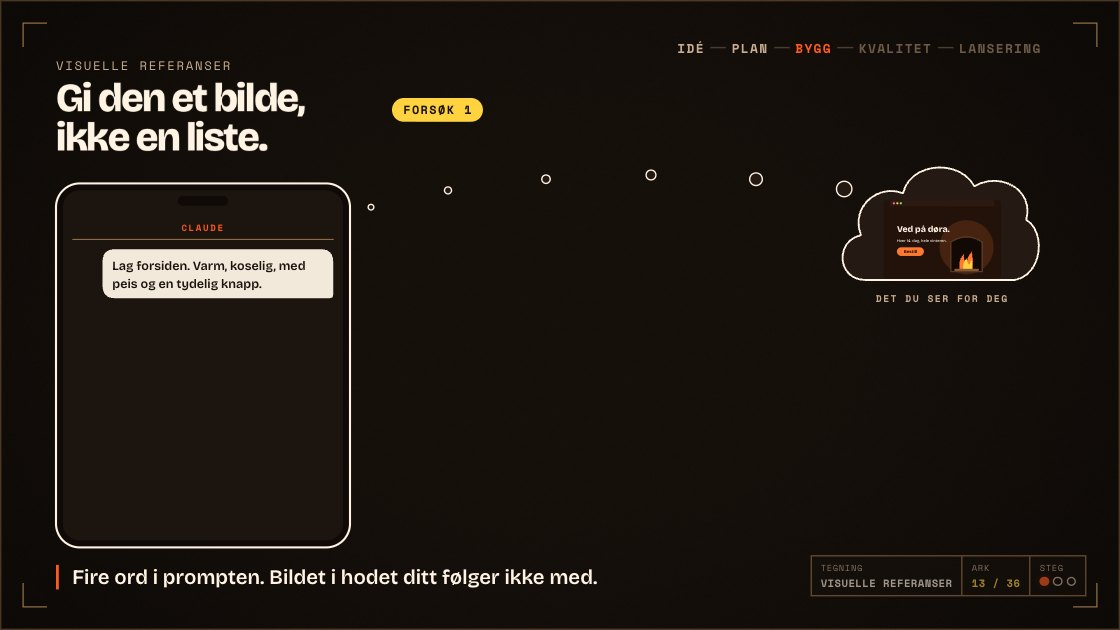
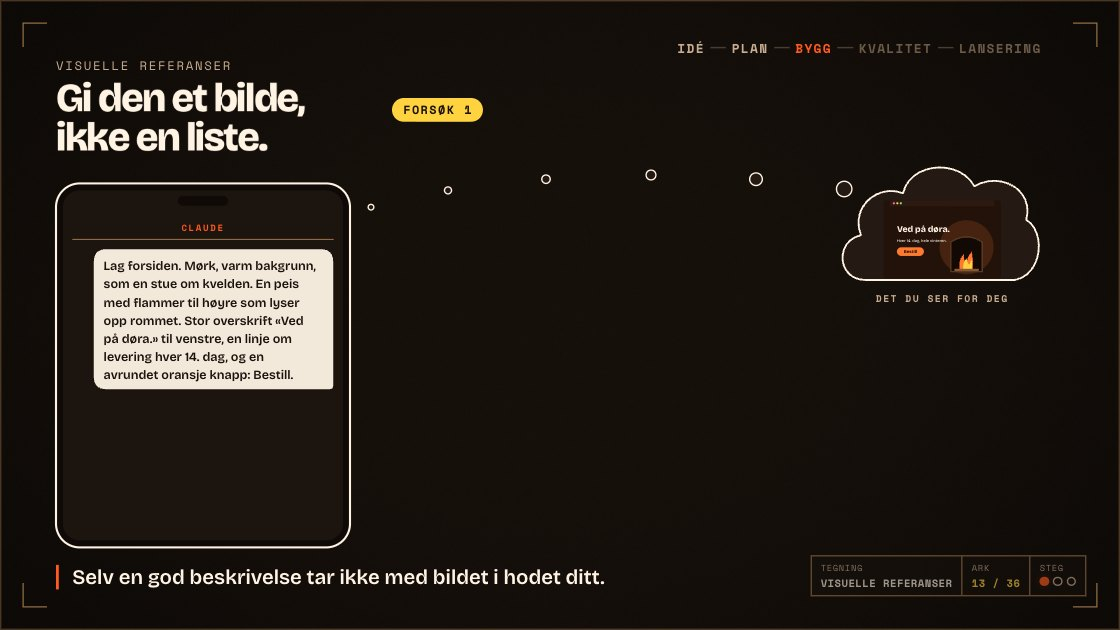
Visual-ref: a full, good description still misses the picture; help line in the speaker's words

Changed region(s): [[0.0625, 0.3921, 0.3125, 0.6333], [0.0625, 0.9048, 0.5312, 0.9349]]

diff --git a/src/slides/visual-ref.js b/src/slides/visual-ref.js
@@ -6,9 +6,9 @@ import { chatPhone, attempt } from '../engine/props.js';
   Tip: give it a picture, not a list. The firewood subscription's front page, right after
   "Varm peis" was picked on the prototypes slide.
     0. The prompt, and what you actually have in mind (a thought cloud: the Varm peis page).
-    1. Attempt 1: the list becomes a checklist and every box is ticked, but the page is the
-       cheap version: bright orange everywhere for "varm", clip-art candle and heart for
-       "koselig", a cartoon flame for "peis", a shouting red button for "tydelig knapp".
+    1. Attempt 1: a good, full description becomes a checklist and every box is ticked, but
+       the page is not what you had in mind: a flat muddy brown, a clip-art brick fireplace
+       with a smiling flame, the headline in the default serif, a glossy orange BESTILL pill.
     2. Attempt 2, a new session: the thought becomes a real reference image (made in ChatGPT).
        The page is built against it: close to the picture, a little plainer.
   The game example (real ChatGPT references, the result in Unreal) is its own slide in
@@ -22,8 +22,9 @@ import { chatPhone, attempt } from '../engine/props.js';
     thought cloud / polaroid x 1190–1494, y 150–440; thought dots y 250–300 back to the phone
 */
 
-const REQ = ['Varm', 'Koselig', 'Peis', 'Tydelig knapp'];
-const PROMPT = 'Lag forsiden. Varm, koselig, med peis og en tydelig knapp.';
+// a good, full description: still not the picture you have in mind
+const REQ = ['Mørk, varm bakgrunn', 'Peis med flammer til høyre', 'Stor overskrift til venstre', 'Oransje knapp: Bestill'];
+const PROMPT = 'Lag forsiden. Mørk, varm bakgrunn, som en stue om kvelden. En peis med flammer til høyre som lyser opp rommet. Stor overskrift «Ved på døra.» til venstre, en linje om levering hver 14. dag, og en avrundet oransje knapp: Bestill.';
 const PX = 600, PY = 380, PW = 570, PH = 360;
 const INK = (fill, w = 2.6) => ({ style: `fill: ${fill}; stroke: #1a120c`, 'stroke-width': w, 'stroke-linejoin': 'round' });
 
@@ -61,7 +62,7 @@ export default {
   title: 'Visuelle referanser',
   steps: 3,
   notes: [
-    'En helt vanlig prompt for forsiden. Og bildet du har i hodet: Varm peis.',
+    'En god, utfyllende beskrivelse av forsiden. Og bildet du har i hodet: Varm peis.',
     'Alle fire krav er oppfylt. Det ligner bare ikke på det du så for deg.',
     'Forsøk 2, ny session. Bildet fra hodet ditt, laget i ChatGPT, sendt med. Nå treffer den.',
   ],
@@ -89,9 +90,9 @@ export default {
       const g = D.g(svg, { 'data-unit': '' });
       frame(g);
       const bg = D.el('rect', { x: PX + 2, y: PY + 34, width: PW - 4, height: PH - 36, style: 'fill: #f2f2f2', 'data-bg': '' }, g);
-      D.text(g, PX + 30, PY + 84, 'Velkommen til vår vedtjeneste', 'cw', { style: 'font: 700 26px Georgia, serif; fill: #333' });
-      D.p(g, `M${PX + 30} ${PY + 106} h300 M${PX + 30} ${PY + 124} h240`, '', { style: 'fill: none; stroke: #9a9a9a', 'stroke-width': 6, 'stroke-linecap': 'round', 'data-bg': '' });
-      return { g, bg };
+      // an empty template to start from
+      const ph = D.p(g, `M${PX + 30} ${PY + 80} h220 M${PX + 30} ${PY + 104} h160 M${PX + 30} ${PY + 128} h190`, '', { style: 'fill: none; stroke: #c9c9c9', 'stroke-width': 10, 'stroke-linecap': 'round', 'data-bg': '' });
+      return { g, bg, ph };
     }
 
     const reset = () => { svg.innerHTML = ''; P = {}; };
@@ -129,27 +130,37 @@ export default {
         const at = (k) => t0 + 0.4 + k * 1.3;
         const H = cheapPage();
         tl.fromTo(H.g, { opacity: 0, y: 20 }, { opacity: 1, y: 0, duration: 0.5 }, t0);
-        // Varm: bright orange, everywhere
-        tl.to(H.bg, { attr: { style: 'fill: #ff9a3d' }, duration: 0.5 }, at(0));
+        // Mørk, varm bakgrunn: a flat muddy brown
+        tl.to(H.bg, { attr: { style: 'fill: #5a2c14' }, duration: 0.5 }, at(0));
+        tl.to(H.ph, { opacity: 0, duration: 0.3 }, at(0));
         tick(0, at(0) + 0.4);
-        // Koselig: clip art, a candle and a heart
-        const clip = D.g(H.g);
-        D.el('rect', { x: PX + 466, y: PY + 110, width: 26, height: 60, rx: 3, ...INK('#fff3e3', 2) }, clip);
-        D.p(clip, `M${PX + 479} ${PY + 106} q-10 -14 0 -26 q10 12 0 26 Z`, '', INK('#ffd23f', 2));
-        D.p(clip, `M${PX + 530} ${PY + 132} c-10 -14 -30 -4 -18 12 l18 18 l18 -18 c12 -16 -8 -26 -18 -12 Z`, '', INK('#ff5a8a', 2));
-        tl.fromTo(clip, { opacity: 0, scale: 0.6, transformOrigin: '50% 50%' }, { opacity: 1, scale: 1, duration: 0.4, ease: 'back.out(2)' }, at(1));
+        // Peis med flammer til høyre: a clip-art brick fireplace, a flame with a face
+        const fire = D.g(H.g);
+        const fx0 = PX + 350, fy0 = PY + 120;
+        D.el('rect', { x: fx0, y: fy0, width: 190, height: 200, style: 'fill: #b5452e; stroke: #1a120c', 'stroke-width': 2.5 }, fire);
+        let bricks = '';
+        for (let r = 0; r < 8; r++) {
+          bricks += `M${fx0} ${fy0 + r * 25} H${fx0 + 190} `;
+          for (let c = 0; c < 5; c++) bricks += `M${fx0 + c * 40 + (r % 2) * 20} ${fy0 + r * 25} v25 `;
+        }
+        D.p(fire, bricks, '', { style: 'fill: none; stroke: #7a2a1a', 'stroke-width': 2 });
+        D.el('rect', { x: fx0 + 40, y: fy0 + 80, width: 110, height: 120, style: 'fill: #1a120c' }, fire);
+        D.p(fire, `M${fx0 + 70} ${fy0 + 196} q-30 -6 -18 -46 q8 18 18 18 q-6 -36 24 -60 q0 30 18 42 q6 -12 0 -24 q30 24 12 66 q-12 10 -54 4 Z`, '', INK('#ff9a1f', 2));
+        [[fx0 + 86, fy0 + 160], [fx0 + 102, fy0 + 160]].forEach(([cx, cy]) => D.el('circle', { cx, cy, r: 3.5, style: 'fill: #1a120c' }, fire));
+        D.p(fire, `M${fx0 + 84} ${fy0 + 172} q10 8 20 0`, '', { style: 'fill: none; stroke: #1a120c', 'stroke-width': 2.5, 'stroke-linecap': 'round' });
+        tl.fromTo(fire, { opacity: 0, y: 14 }, { opacity: 1, y: 0, duration: 0.4 }, at(1));
         tick(1, at(1) + 0.4);
-        // Peis: a cartoon flame with a face
-        const flame = D.g(H.g);
-        D.p(flame, `M${PX + 160} ${PY + 290} q-60 -10 -40 -80 q10 30 30 30 q-10 -60 40 -100 q0 50 30 70 q10 -20 0 -40 q50 40 20 110 q-20 20 -80 10 Z`, '', INK('#ff5a1f', 2.5));
-        [[PX + 158, PY + 236], [PX + 182, PY + 236]].forEach(([cx, cy]) => D.el('circle', { cx, cy, r: 5, style: 'fill: #1a120c' }, flame));
-        D.p(flame, `M${PX + 156} ${PY + 254} q14 12 28 0`, '', { style: 'fill: none; stroke: #1a120c', 'stroke-width': 3, 'stroke-linecap': 'round' });
-        tl.fromTo(flame, { opacity: 0, y: 14 }, { opacity: 1, y: 0, duration: 0.4 }, at(2));
+        // Stor overskrift til venstre: big, in the default serif
+        const head = D.g(H.g);
+        D.text(head, PX + 30, PY + 110, 'Ved på døra.', 'ch', { style: 'font: 700 40px Georgia, serif; fill: #ffe9c8' });
+        D.text(head, PX + 30, PY + 140, 'Levering hver 14. dag!', 'cs', { style: 'font: italic 400 18px Georgia, serif; fill: #ffe9c8' });
+        tl.fromTo(head, { opacity: 0 }, { opacity: 1, duration: 0.4 }, at(2));
         tick(2, at(2) + 0.4);
-        // Tydelig knapp: it shouts
+        // Oransje knapp: Bestill, glossy and loud
         const btn = D.g(H.g);
-        D.el('rect', { x: PX + 270, y: PY + 250, width: 260, height: 70, rx: 8, style: 'fill: #e0242a; stroke: #ffd23f', 'stroke-width': 6 }, btn);
-        D.text(btn, PX + 400, PY + 296, 'BESTILL NÅ!!!', 'bt', { 'text-anchor': 'middle', style: 'font: 900 30px Impact, var(--font-display); fill: #ffd23f' });
+        D.el('rect', { x: PX + 30, y: PY + 236, width: 240, height: 64, rx: 32, style: 'fill: #ff7a00; stroke: #ffe14a', 'stroke-width': 5 }, btn);
+        D.el('rect', { x: PX + 44, y: PY + 242, width: 212, height: 22, rx: 11, style: 'fill: #ffffff', opacity: 0.35 }, btn);
+        D.text(btn, PX + 150, PY + 278, 'BESTILL', 'bt', { 'text-anchor': 'middle', style: 'font: 900 28px Impact, var(--font-display); fill: #ffffff' });
         tl.fromTo(btn, { opacity: 0, scale: 0.7, transformOrigin: '50% 50%' }, { opacity: 1, scale: 1, duration: 0.35, ease: 'back.out(2.5)' }, at(3));
         tick(3, at(3) + 0.4);
         P.chat.reply(tl, 'Alle krav oppfylt.', at(3) + 1.2);

diff --git a/src/slides/help.js b/src/slides/help.js
@@ -42,8 +42,8 @@ export const HELP = {
     'Beskriv kravet: AI finner løsninger du ikke kjente til, eller tenkte på.',
   ],
   'visual-ref': [
-    'Fire ord i prompten. Bildet i hodet ditt følger ikke med.',
-    'Alle krav er krysset av. Det ligner bare ikke.',
+    'Selv en god beskrivelse tar ikke med bildet i hodet ditt.',
+    'Alle krav er krysset av, men det er ikke det du så for deg.',
     'Med et bilde treffer den nesten det du så for deg.',
   ],
   'game-ref': [

diff --git a/docs/content.md b/docs/content.md
@@ -45,7 +45,7 @@ Point: requirements matter more than technical instructions; the model often pic
   3. Distance and effort counters for both routes.
 - Applies to most work beyond single-file edits. No single anecdote; use an illustrated generic case.
 
-## Visual references beat descriptions [given] — built (src/slides/visual-ref.js): the firewood subscription's front page, right after "Varm peis" was picked. A thought cloud shows the page you have in mind. Attempt 1 (list prompt "Lag forsiden. Varm, koselig, med peis og en tydelig knapp.") builds the cheap version, every box ticked: bright orange everywhere, clip-art candle and heart, a cartoon flame with a face, a shouting red "BESTILL NÅ!!!". Attempt 2 (new session, ChatGPT reference attached) builds close to the picture, a little plainer. The game example (ChatGPT concept sheet and detail grid, then the Unreal screenshot) is its own slide in Bak kulissene: src/slides/game-ref.js.
+## Visual references beat descriptions [given] — built (src/slides/visual-ref.js): the firewood subscription's front page, right after "Varm peis" was picked. A thought cloud shows the page you have in mind. Attempt 1: a good, full description ("Mørk, varm bakgrunn, som en stue om kvelden. En peis med flammer til høyre … Stor overskrift «Ved på døra.» til venstre … en avrundet oransje knapp: Bestill.") becomes a checklist; every box is ticked, but the page is not what you had in mind: a flat muddy brown, a clip-art brick fireplace with a smiling flame, the headline in the default serif, a glossy orange BESTILL pill. The point: even a good description loses to a reference picture on the visual result. Attempt 2 (new session, ChatGPT reference attached) builds close to the picture, a little plainer. The game example (ChatGPT concept sheet and detail grid, then the Unreal screenshot) is its own slide in Bak kulissene: src/slides/game-ref.js.
 Point: models check off text bullet points instead of reaching the actual target. A ChatGPT concept image gives a target to match.
 - Storyboard [proposed]:
   1. A checklist ("moderne", "varm", "åpen planløsning", "store vinduer") is fed in. The AI builds a house, ticking each box as it goes.
